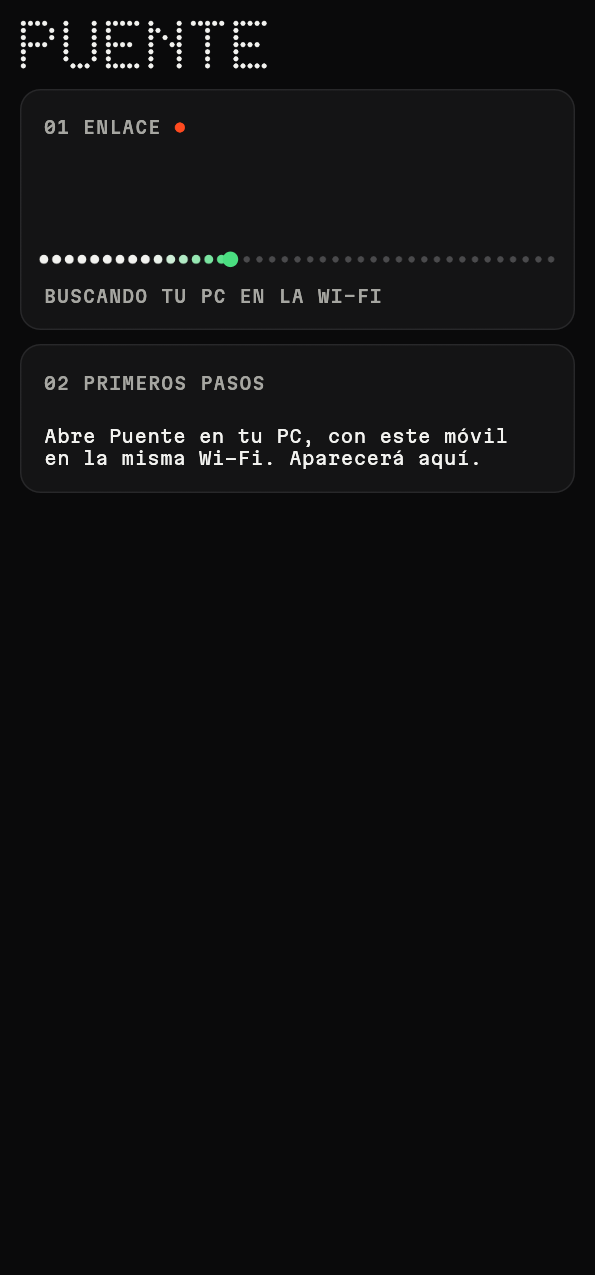
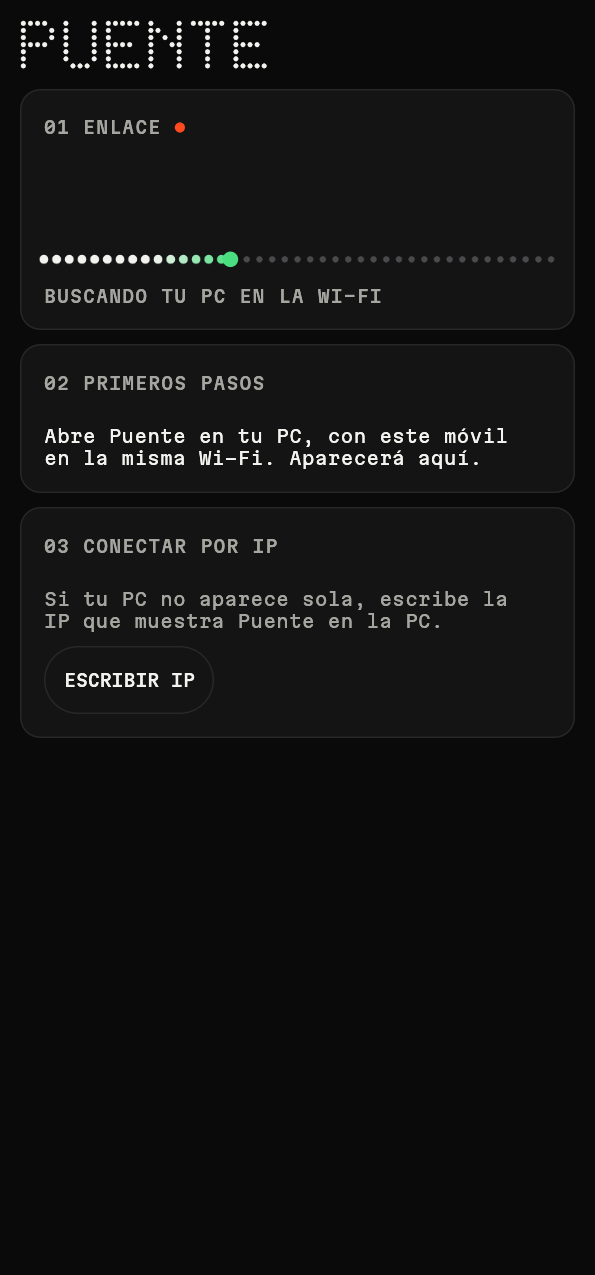
Prepara la versión 0.3.1

diff --git a/README.pt.md b/README.pt.md
@@ -59,7 +59,7 @@ No Linux, ter o celular à mão costuma exigir duas ferramentas: o **KDE Connect
 | **Tela** | Ver e controlar o celular | Mouse, roda e teclado; voltar, início e recentes, também com clique direito, clique do meio e os botões laterais; acompanha o celular quando ele gira |
 | **Qualidade** | Automática ou fixa | Auto ajusta os dados ao que a rede aguenta sem cortar a imagem; também Economia, Normal e Alta |
 | **Som** | Ouvir o celular no PC | Com um botão para desativar, e outro para silenciar o celular durante a transmissão |
-| **Notificações** | Na área de trabalho | Dá para dispensá-las uma a uma ou todas de uma vez e, se o app permitir, responder pelo PC |
+| **Notificações** | Na área de trabalho | Dá para dispensá-las uma a uma ou todas de uma vez e, se o app permitir, responder pelo PC. O sino escolhe se aparecem como notificação do PC, só na lista ou desligadas |
 | **Chamadas** | Ver quem está ligando | Aviso no PC, também para chamadas de outros apps. Atender pelo PC ainda não funciona no WhatsApp |
 | **Arquivos** | Enviar nos dois sentidos | Arrastando para a janela, com progresso e confirmação de que foram salvos |
 | **Área de transferência** | Copiar e colar entre dispositivos | Automática do PC para o celular |
@@ -111,7 +111,7 @@ Baixe a versão mais recente em [Releases](https://github.com/jorge07RD/puente/r
 |---|---|---|
 | **Android** | `puente-*-android-arm64.apk` | Abra no celular. O Play Protect vai avisar por ser um app instalado manualmente |
 | **Linux** | `puente-*-linux-x86_64.tar.gz` | Descompacte e execute `./install.sh` |
-| **Windows** (experimental) | `puente-*-windows-x86_64.zip` | Descompacte e abra `puente.exe`; permita o acesso no firewall |
+| **Windows** (experimental) | `puente-*-windows-x86_64.zip` | Descompacte e abra `puente.exe`; permita o acesso no firewall. Para deixá-lo à mão, clique com o botão direito em `puente.exe` e escolha «Criar atalho» |
 
 A versão para Windows compila e passa nos testes automáticos, mas ainda não foi testada com um celular de verdade.
 
@@ -121,7 +121,7 @@ A versão para Windows compila e passa nos testes automáticos, mas ainda não f
 |---|---|
 | **PC** | Linux. Testado no Hyprland com XWayland |
 | **Celular** | Android 10 ou superior, arm64. Testado em um Samsung Galaxy S23 Ultra |
-| **Rede** | Os dois na mesma rede local, com a porta 1714 TCP e UDP aberta no PC |
+| **Rede** | Os dois na mesma rede local, com a porta 1714 TCP e UDP aberta no PC. Se o PC não aparecer sozinho (Wi-Fi de convidados, VPN, outra sub-rede), toque em «Digitar IP» no celular e coloque o que o Puente mostra no PC |
 
 Se você usa `ufw`:
 

diff --git a/README.md b/README.md
@@ -59,7 +59,7 @@ En Linux, tener el móvil a mano suele exigir dos herramientas: **KDE Connect** 
 | **Pantalla** | Ver y controlar el móvil | Ratón, rueda y teclado; atrás, inicio y recientes, también con clic derecho, clic central y los botones laterales; se adapta al girar el móvil |
 | **Calidad** | Automática o fija | Auto ajusta los datos a lo que aguanta la red sin cortar la imagen; también Ahorro, Normal y Alta |
 | **Sonido** | Oír el móvil en la PC | Con interruptor para desactivarlo, y otro para silenciar el móvil mientras transmites |
-| **Avisos** | Notificaciones en el escritorio | Se pueden descartar de una en una o todas a la vez y, si la app lo admite, responder desde la PC |
+| **Avisos** | Notificaciones en el escritorio | Se pueden descartar de una en una o todas a la vez y, si la app lo admite, responder desde la PC. Con la campana eliges si salen como aviso de la PC, solo en la lista o apagados |
 | **Llamadas** | Ver quién llama | Aviso en la PC, también para llamadas de otras apps. Contestar desde la PC todavía no funciona en WhatsApp |
 | **Archivos** | Enviar en los dos sentidos | Arrastrando a la ventana, con progreso y confirmación de que se guardaron |
 | **Portapapeles** | Copiar y pegar entre dispositivos | Automático de la PC al móvil |
@@ -111,7 +111,7 @@ Descarga la última versión desde [Releases](https://github.com/jorge07RD/puent
 |---|---|---|
 | **Android** | `puente-*-android-arm64.apk` | Ábrelo en el móvil. Play Protect avisará por ser una app instalada a mano |
 | **Linux** | `puente-*-linux-x86_64.tar.gz` | Descomprime y ejecuta `./install.sh` |
-| **Windows** (experimental) | `puente-*-windows-x86_64.zip` | Descomprime y abre `puente.exe`; permite el acceso en el firewall |
+| **Windows** (experimental) | `puente-*-windows-x86_64.zip` | Descomprime y abre `puente.exe`; permite el acceso en el firewall. Para tenerlo a mano, clic derecho en `puente.exe` y «Crear acceso directo» |
 
 La versión de Windows compila y pasa las pruebas automáticas, pero aún no se ha probado con un móvil real.
 
@@ -121,7 +121,7 @@ La versión de Windows compila y pasa las pruebas automáticas, pero aún no se 
 |---|---|
 | **PC** | Linux. Probado en Hyprland con XWayland |
 | **Móvil** | Android 10 o superior, arm64. Probado en un Samsung Galaxy S23 Ultra |
-| **Red** | Los dos en la misma red local, con el puerto 1714 TCP y UDP abierto en la PC |
+| **Red** | Los dos en la misma red local, con el puerto 1714 TCP y UDP abierto en la PC. Si la PC no aparece sola (Wi-Fi de invitados, VPN, otra subred), en el móvil toca «Escribir IP» y pon la que muestra Puente en la PC |
 
 Si usas `ufw`:
 

diff --git a/README.en.md b/README.en.md
@@ -59,7 +59,7 @@ On Linux, keeping your phone at hand usually takes two tools: **KDE Connect** fo
 | **Screen** | See and control the phone | Mouse, wheel and keyboard; back, home and recents, also with right click, middle click and the side buttons; follows the phone when it rotates |
 | **Quality** | Automatic or fixed | Auto fits the data to what the network handles without cutting the picture; also Saver, Normal and High |
 | **Sound** | Hear the phone on the PC | With a switch to turn it off, and another to mute the phone while streaming |
-| **Notifications** | On your desktop | Dismiss them one by one or all at once and, if the app allows it, reply from the PC |
+| **Notifications** | On your desktop | Dismiss them one by one or all at once and, if the app allows it, reply from the PC. The bell chooses whether they show as PC notifications, only in the list, or not at all |
 | **Calls** | See who is calling | Alert on the PC, also for calls from other apps. Answering from the PC does not work with WhatsApp yet |
 | **Files** | Send both ways | By dragging onto the window, with progress and confirmation that they were saved |
 | **Clipboard** | Copy and paste between devices | Automatic from the PC to the phone |
@@ -111,7 +111,7 @@ Get the latest version from [Releases](https://github.com/jorge07RD/puente/relea
 |---|---|---|
 | **Android** | `puente-*-android-arm64.apk` | Open it on the phone. Play Protect will warn you because it is installed by hand |
 | **Linux** | `puente-*-linux-x86_64.tar.gz` | Extract it and run `./install.sh` |
-| **Windows** (experimental) | `puente-*-windows-x86_64.zip` | Extract it and open `puente.exe`; allow access in the firewall |
+| **Windows** (experimental) | `puente-*-windows-x86_64.zip` | Extract it and open `puente.exe`; allow access in the firewall. To keep it handy, right-click `puente.exe` and choose "Create shortcut" |
 
 The Windows version builds and passes the automated tests, but it has not been tried with a real phone yet.
 
@@ -121,7 +121,7 @@ The Windows version builds and passes the automated tests, but it has not been t
 |---|---|
 | **PC** | Linux. Tested on Hyprland with XWayland |
 | **Phone** | Android 10 or newer, arm64. Tested on a Samsung Galaxy S23 Ultra |
-| **Network** | Both on the same local network, with port 1714 TCP and UDP open on the PC |
+| **Network** | Both on the same local network, with port 1714 TCP and UDP open on the PC. If the PC does not show up by itself (guest Wi-Fi, VPN, another subnet), tap "Type IP" on the phone and enter the one Puente shows on the PC |
 
 If you use `ufw`:
 
